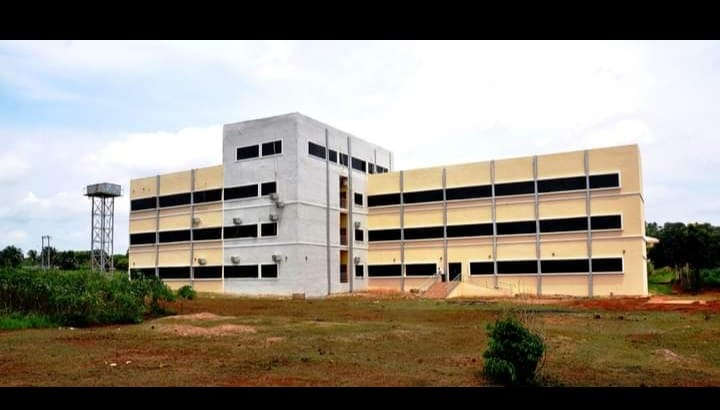
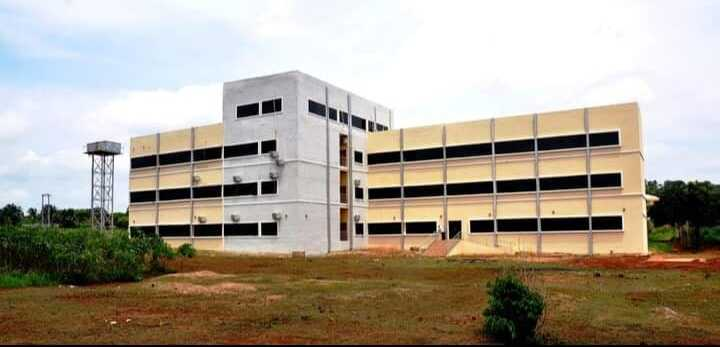
update

diff --git a/src/app/about/page.tsx b/src/app/about/page.tsx
@@ -13,8 +13,8 @@ export default function Page() {
         <div className="bg-white">
 
             {/* about us hero section  */}
-            <section className=" w-full h-[80vh] bg-black flex items-center justify-center flex-col gap-4 text-white  py-4 px-3 text-center bg-no-repeat bg-center bg-cover relative " style={{ backgroundImage: "url('/about-us/about-us-hero.webp')" }} >
-                <div className=" bg-black/45 absolute inset-0 h-full w-full " />
+            <section className=" w-full h-screen bg-black flex items-center justify-center flex-col gap-4 text-white  py-4 px-3 text-center bg-no-repeat bg-center bg-cover relative " style={{ backgroundImage: "url('/about-us/about-us-hero.webp')" }} >
+                <div className=" bg-black/55 absolute inset-0 h-full w-full " />
 
                 <div className=" flex flex-col gap-3 z-30 " >
                     <h2 className=" font-poppins text-4xl md:text-8xl font-bold  " >ABOUT US</h2>
@@ -25,7 +25,7 @@ export default function Page() {
 
 
             {/* Our Mission Section  */}
-            <section className=" w-[80%] md:min-w-xl my-32 flex flex-col md:flex-row items-center justify-between gap-10 mx-auto  py-5 pb-20 border-b-2 border-[#008CC1] " >
+            <section className=" w-[95%] md:w-[80%] md:min-w-xl my-32 flex flex-col md:flex-row items-center justify-between gap-10 mx-auto  py-5 pb-20 border-b-2 border-[#008CC1] " >
 
                 <h3 className=" text-3xl md:text-4xl mb-2 font-semibold md:mb-4 text-[#008CC1] font-poppins" >Our Mission</h3>
 
@@ -60,7 +60,7 @@ export default function Page() {
 
                 <div className=" w-[340px] h-[340px] border-2 border-[#008CC1] flex items-center justify-center relative rounded-sm "  >
 
-                    <Image src={"/about-us/side.webp"} alt="About-us-img" width={500} height={500} className=" w-full h-full object-center object-cover absolute top-4 left-4 rounded-sm " />
+                    <Image src={"/homepage-images/lsp-building.jpg"} alt="About-us-img" width={500} height={500} className=" w-full h-full object-center object-cover absolute top-4 left-4 rounded-sm " />
 
                 </div>
             </section>
@@ -95,8 +95,8 @@ export default function Page() {
 
 
             {/* Benefits of LSP */}
-            <section className="w-full md:min-w-xl flex flex-col items-center gap-10  py-20 px-[3%] " >
-                <div className="text-center my-16 " >
+            <section className="w-full md:min-w-xl flex flex-col items-center gap-10  py-20 px-[2%] " >
+                <div className="text-center my-12 " >
                     <h3 className=" text-3xl md:text-4xl mb-2 font-semibold md:mb-4 text-[#008CC1] font-poppins">Benefits of LSP</h3>
                     <p className="font-signika  text-xl md:text-2xl max-w-4xl" >Being part of Lion Science Park means being part of a hot spot and a learning space. At Lion Science Park you will meet clients, partners and academic expertise in a vibrant environment where things happen – all the time.</p>
                 </div>

diff --git a/src/app/services/page.tsx b/src/app/services/page.tsx
@@ -8,7 +8,7 @@ export default function Page() {
         <div className="bg-white" >
 
             {/* service hero section  */}
-            <section className=" w-full h-[80vh] bg-black flex items-center justify-center flex-col gap-4 text-white  py-4 px-3 text-center bg-no-repeat bg-center bg-cover relative " style={{ backgroundImage: "url('/about-us/side.webp')" }} >
+            <section className=" w-full h-screen bg-black flex items-center justify-center flex-col gap-4 text-white  py-4 px-3 text-center bg-no-repeat bg-center bg-cover relative " style={{ backgroundImage: "url('/about-us/side.webp')" }} >
                 <div className=" bg-black/45 absolute inset-0 h-full w-full " />
 
                 <div className=" flex flex-col gap-3 z-30 " >
@@ -34,7 +34,7 @@ export default function Page() {
                             <Image src={data.image} height={500} width={500} alt="service-image" className=" h-full w-full object-cover object-center group-hover:scale-125 transition-all duration-300 ease-in-out " />
                         </div>
 
-                        <div className="w-full h-full flex items-start justify-center flex-col gap-4 flex-1  px-5  " >
+                        <div className="w-full h-full flex items-start justify-center flex-col gap-4 flex-1   " >
                             <h3 className=" font-bold text-2xl text-[#081623]  font-poppins text-start " > {data.title} </h3>
                             <p className=" font-semibold text-lg   text-start  text-gray-400 transition-all duration-300 ease-in-out font-signika  " > {data.description} </p>
                         </div>

diff --git a/src/app/team/page.tsx b/src/app/team/page.tsx
@@ -12,7 +12,7 @@ export default function Page() {
     return (
         <div className="bg-white" >
             {/* Team hero section  */}
-            <section className=" w-full h-[80vh] bg-black flex items-center justify-center flex-col gap-4 text-white  py-4 px-3 text-center bg-no-repeat bg-center bg-cover relative " style={{ backgroundImage: "url('/about-us/side.webp')" }} >
+            <section className=" w-full h-screen bg-black flex items-center justify-center flex-col gap-4 text-white  py-4 px-3 text-center bg-no-repeat bg-center bg-cover relative " style={{ backgroundImage: "url('/about-us/side.webp')" }} >
                 <div className=" bg-black/45 absolute inset-0 h-full w-full " />
 
                 <div className=" flex flex-col gap-3 z-30 " >
@@ -44,7 +44,7 @@ export default function Page() {
                         <div className="w-full  flex flex-col pt-7  gap-6" >
                             <div className="px-5 flex flex-col items-center justify-center gap-1 " >
                                 <h5 className=" font-poppins text-xl font-semibold   " >  {data.name} </h5>
-                                <p className=" fome] text-lg font-signika text-[#008CC1]" >{data.position} </p>
+                                <p className=" fome] text-lg font-signika text-[#008CC1] text-center" >{data.position} </p>
                             </div>
 
                             <div className="w-full flex items-center" >

diff --git a/src/components/HomeComponents/AboutUs.tsx b/src/components/HomeComponents/AboutUs.tsx
@@ -17,7 +17,7 @@ export default function AboutUs() {
          <div className=" relative" >
 
             <Image src={"/homepage-images/dots.svg"} alt="image" height={500} width={500} className="w-[30%] h-[50%] object-center  absolute " />
-               <div className=" h-[370px] w-[370px] lg:w-[500px] lg:h-[500px]  flex items-center justify-center relative  rounded-[45%] rounded-tr-none overflow-hidden " >
+               <div className=" h-[330px] w-[330px] lg:w-[500px] lg:h-[500px]  flex items-center justify-center relative  rounded-[45%] rounded-tr-none overflow-hidden " >
 
                 <Image src={"/homepage-images/ict.webp"} alt="image" height={500} width={500} className="w-full h-full object-center object-cover" />
 

diff --git a/src/components/HomeComponents/FocusAreas.tsx b/src/components/HomeComponents/FocusAreas.tsx
@@ -18,7 +18,7 @@ const Card = ({ data }: CardProps) => {
     return (
         <div className=" w-full max-w-xs md:max-w-md h-fit  flex flex-col items-center justify-between gap-3  group " >
 
-            <div className="  w-full flex items-center justify-center overflow-hidden rounded-md " >
+            <div className="  w-full flex items-center justify-center overflow-hidden rounded-md bg-gray-400 " >
                 <Image src={data.img} alt={`${data.title}-image`} width={500} height={500} className="object-cover object-center h-[300px] w-full group-hover:scale-125 transform transition-all duration-300 " />
             </div>
             <div className=" w-full h-fit  px-2 md:px-6 py-4 md:py-10 " >

diff --git a/src/components/UI/Footer.tsx b/src/components/UI/Footer.tsx
@@ -7,7 +7,7 @@ import Link from "next/link";
 
 export default function Footer() {
     return (
-        <footer className="w-full pt-20 pb-10 px-[4%] bg-[#081623] text-white flex flex-col items-center justify-center  gap-18 font-signika " >
+        <footer className="w-full pt-20 pb-10 px-[3%] bg-[#081623] text-white flex flex-col items-center justify-center  gap-18 font-signika " >
 
 
             <div className=" w-full grid grid-cols-1 md:grid-cols-2 lg:grid-cols-4 gap-20 place-items-start justify-items-end h-full p-1" >

diff --git a/src/Data/TeamData.ts b/src/Data/TeamData.ts
@@ -27,4 +27,10 @@ export const TeamData = [
         position: "Manager, Lion Science Park",
         image: "/about-us/Mrs. Akwara.jpg"
     },
+    {
+        name: "Mr Anpe Fut",
+        linkedInUrl: "#",
+        position: "Federal Ministry of Science and Technology",
+        image: "/about-us/mrAn.jpg"
+    },
 ]
